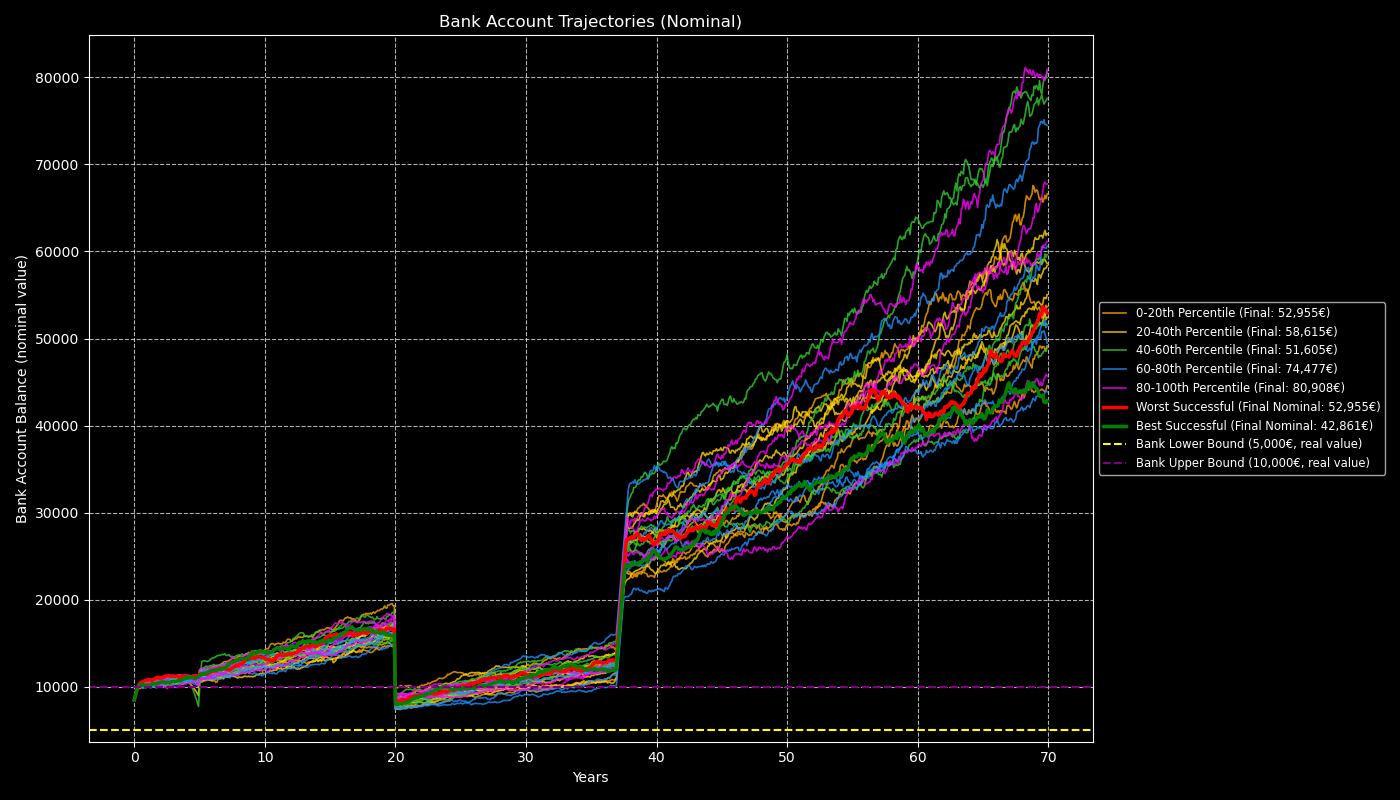
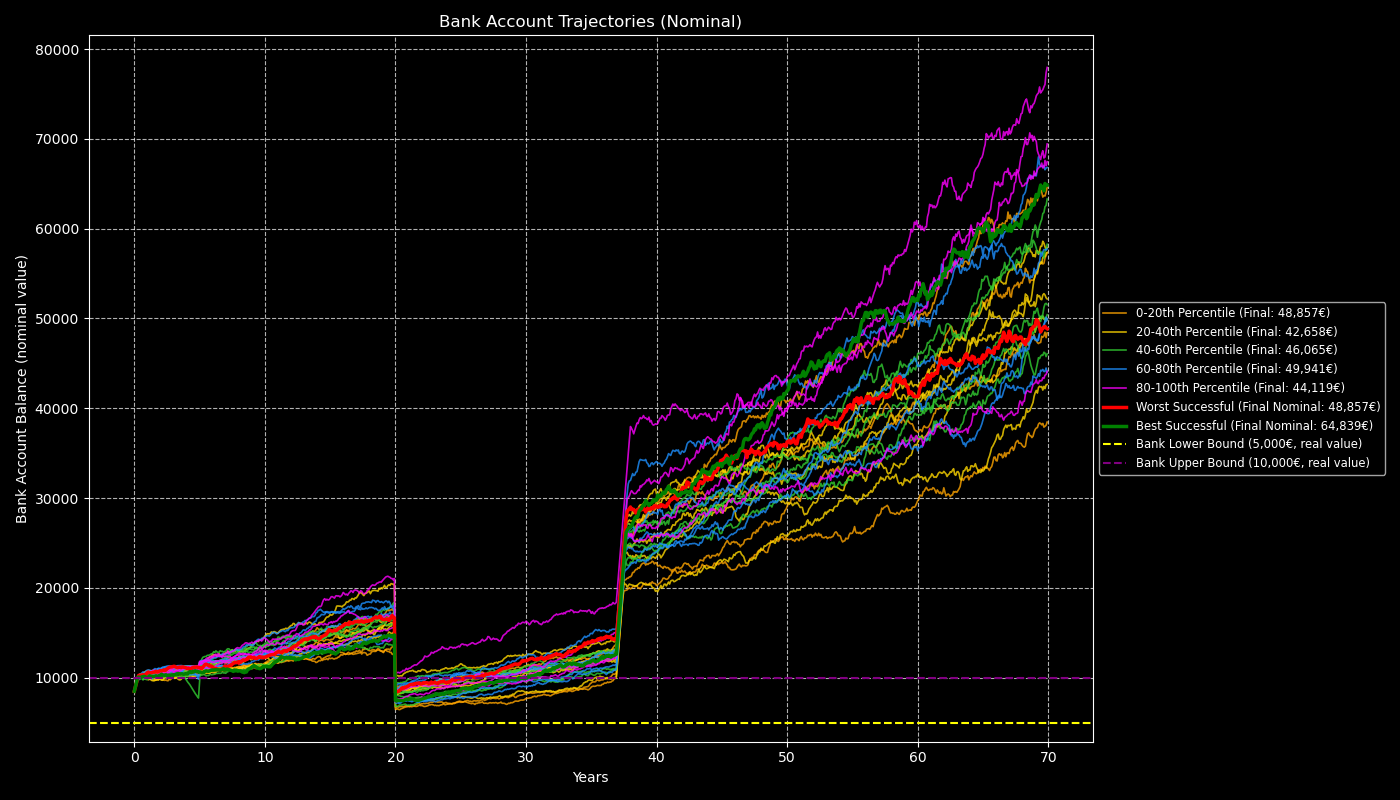
Docs.

diff --git a/docs/reports/summary.md b/docs/reports/summary.md
@@ -1,80 +1,80 @@
 # FIRE Plan Simulation Report
 
-Report generated on: 2025-07-26 16:25:11
+Report generated on: 2025-07-27 18:09:33
 Using configuration: `config.toml`
 
 ## FIRE Plan Simulation Summary
 
-- **FIRE Plan Success Rate:** 99.18%
-- **Number of failed simulations:** 82
-- **Average months lasted in failed simulations:** 209.0
+- **FIRE Plan Success Rate:** 99.20%
+- **Number of failed simulations:** 80
+- **Average months lasted in failed simulations:** 236.8
 
 ## Final Wealth Distribution Statistics (Successful Simulations)
 
 | Statistic                     | Nominal Final Wealth          | Real Final Wealth (Today's Money) |
 |-------------------------------|-------------------------------|-----------------------------------|
-| Median (P50)                  | 13,982,998.30  | 2,538,218.88         |
-| 25th Percentile (P25)         | 7,771,846.63     | 1,381,654.68            |
-| 75th Percentile (P75)         | 26,900,633.18     | 4,961,089.74            |
-| Interquartile Range (P75-P25) | 19,128,786.55     | 3,579,435.06            |
+| Median (P50)                  | 14,031,299.90  | 2,555,931.35         |
+| 25th Percentile (P25)         | 7,903,829.27     | 1,407,895.30            |
+| 75th Percentile (P75)         | 27,231,545.06     | 4,920,135.26            |
+| Interquartile Range (P75-P25) | 19,327,715.79     | 3,512,239.95            |
 
 ## Nominal Results (cases selected by nominal final wealth)
 
 #### Worst Successful Case (Nominal)
 
-- **Final Wealth (Nominal):** 1,286,663.33
-- **Final Wealth (Real):** 242,972.05
-- **Cumulative Inflation Factor:** 5.2955
-- **Your life CAGR (Nominal):** 7.53%
-- **Final Allocations (percent):** stocks: 49.0%, bonds: 51.0%, str: 0.0%, eth: 0.0%, ag: 0.0%, real_estate: 0.0%
-- **Nominal Asset Values:** stocks: 605,093.52 , bonds: 628,614.61 , str: 0.00 , eth: 0.00 , ag: 0.00 , real_estate: 0.00 , Bank: 52,955.20
+- **Final Wealth (Nominal):** 1,275,288.08
+- **Final Wealth (Real):** 261,026.72
+- **Cumulative Inflation Factor:** 4.8857
+- **Your life CAGR (Nominal):** 7.51%
+- **Final Allocations (percent):** stocks: 36.9%, bonds: 63.1%, str: 0.0%, eth: 0.0%, ag: 0.0%
+- **Nominal Asset Values:** stocks: 452,387.19 , bonds: 774,044.28 , str: 0.00 , eth: 0.00 , ag: 0.00 , Bank: 48,856.61
 
 #### Median Successful Case (Nominal)
 
-- **Final Wealth (Nominal):** 13,983,187.27
-- **Final Wealth (Real):** 2,666,273.85
-- **Cumulative Inflation Factor:** 5.2445
+- **Final Wealth (Nominal):** 14,032,653.45
+- **Final Wealth (Real):** 3,354,982.66
+- **Cumulative Inflation Factor:** 4.1826
 - **Your life CAGR (Nominal):** 11.26%
-- **Final Allocations (percent):** stocks: 96.0%, bonds: 4.0%, str: 0.0%, eth: 0.0%, ag: 0.0%, real_estate: 0.0%
-- **Nominal Asset Values:** stocks: 13,372,449.10 , bonds: 558,293.49 , str: 0.00 , eth: 0.00 , ag: 0.00 , real_estate: 0.00 , Bank: 52,444.68
+- **Final Allocations (percent):** stocks: 93.7%, bonds: 6.3%, str: 0.0%, eth: 0.0%, ag: 0.0%
+- **Nominal Asset Values:** stocks: 13,103,569.65 , bonds: 887,257.50 , str: 0.00 , eth: 0.00 , ag: 0.00 , Bank: 41,826.31
 
 #### Best Successful Case (Nominal)
 
-- **Final Wealth (Nominal):** 1,759,017,738.80
-- **Final Wealth (Real):** 410,403,135.94
-- **Cumulative Inflation Factor:** 4.2861
-- **Your life CAGR (Nominal):** 19.21%
-- **Final Allocations (percent):** stocks: 94.2%, bonds: 5.8%, str: 0.0%, eth: 0.0%, ag: 0.0%, real_estate: 0.0%
-- **Nominal Asset Values:** stocks: 1,657,192,172.88 , bonds: 101,782,705.20 , str: 0.00 , eth: 0.00 , ag: 0.00 , real_estate: 0.00 , Bank: 42,860.73
+- **Final Wealth (Nominal):** 8,399,596,448.99
+- **Final Wealth (Real):** 1,295,454,961.33
+- **Cumulative Inflation Factor:** 6.4839
+- **Your life CAGR (Nominal):** 21.90%
+- **Final Allocations (percent):** stocks: 99.2%, bonds: 0.8%, str: 0.0%, eth: 0.0%, ag: 0.0%
+- **Nominal Asset Values:** stocks: 8,333,598,936.40 , bonds: 65,932,673.63 , str: 0.00 , eth: 0.00 , ag: 0.00 , Bank: 64,838.97
 
 ## Real Results (cases selected by real final wealth)
 
 #### Worst Successful Case (Real)
 
-- **Final Wealth (Real):** 180,453.56
-- **Final Wealth (Nominal):** 1,452,048.46
-- **Cumulative Inflation Factor:** 8.0467
-- **Your life CAGR (Real):** 4.55%
-- **Final Allocations (percent):** stocks: 53.5%, bonds: 46.5%, str: 0.0%, eth: 0.0%, ag: 0.0%, real_estate: 0.0%
-- **Nominal Asset Values:** stocks: 734,217.05 , bonds: 637,364.80 , str: 0.00 , eth: 0.00 , ag: 0.00 , real_estate: 0.00 , Bank: 80,466.60
+- **Final Wealth (Real):** 229,507.34
+- **Final Wealth (Nominal):** 1,785,548.69
+- **Cumulative Inflation Factor:** 7.7799
+- **Your life CAGR (Real):** 4.91%
+- **Final Allocations (percent):** stocks: 67.0%, bonds: 33.0%, str: 0.0%, eth: 0.0%, ag: 0.0%
+- **Nominal Asset Values:** stocks: 1,144,120.41 , bonds: 563,629.09 , str: 0.00 , eth: 0.00 , ag: 0.00 , Bank: 77,799.20
 
 #### Median Successful Case (Real)
 
-- **Final Wealth (Real):** 2,538,877.30
-- **Final Wealth (Nominal):** 10,684,805.85
-- **Cumulative Inflation Factor:** 4.2085
-- **Your life CAGR (Real):** 8.58%
-- **Final Allocations (percent):** stocks: 91.2%, bonds: 8.8%, str: 0.0%, eth: 0.0%, ag: 0.0%, real_estate: 0.0%
-- **Nominal Asset Values:** stocks: 9,708,237.99 , bonds: 934,483.10 , str: 0.00 , eth: 0.00 , ag: 0.00 , real_estate: 0.00 , Bank: 42,084.77
+- **Final Wealth (Real):** 2,556,027.70
+- **Final Wealth (Nominal):** 16,418,585.67
+- **Cumulative Inflation Factor:** 6.4235
+- **Your life CAGR (Real):** 8.59%
+- **Final Allocations (percent):** stocks: 94.5%, bonds: 5.5%, str: 0.0%, eth: 0.0%, ag: 0.0%
+- **Nominal Asset Values:** stocks: 15,452,943.70 , bonds: 901,407.19 , str: 0.00 , eth: 0.00 , ag: 0.00 , Bank: 64,234.77
 
 #### Best Successful Case (Real)
 
-- **Final Wealth (Real):** 410,403,135.94
-- **Final Wealth (Nominal):** 1,759,017,738.80
-- **Cumulative Inflation Factor:** 4.2861
-- **Your life CAGR (Real):** 16.76%
-- **Final Allocations (percent):** stocks: 94.2%, bonds: 5.8%, str: 0.0%, eth: 0.0%, ag: 0.0%, real_estate: 0.0%
-- **Nominal Asset Values:** stocks: 1,657,192,172.88 , bonds: 101,782,705.20 , str: 0.00 , eth: 0.00 , ag: 0.00 , real_estate: 0.00 , Bank: 42,860.73
+- **Final Wealth (Real):** 1,295,454,961.33
+- **Final Wealth (Nominal):** 8,399,596,448.99
+- **Cumulative Inflation Factor:** 6.4839
+- **Your life CAGR (Real):** 18.69%
+- **Final Allocations (percent):** stocks: 99.2%, bonds: 0.8%, str: 0.0%, eth: 0.0%, ag: 0.0%
+- **Nominal Asset Values:** stocks: 8,333,598,936.40 , bonds: 65,932,673.63 , str: 0.00 , eth: 0.00 , ag: 0.00 , Bank: 64,838.97
 
 ## Visualizations
 
@@ -120,42 +120,31 @@ Using configuration: `config.toml`
 [assets.stocks]
 mu = 0.07
 sigma = 0.15
-is_liquid = true
 withdrawal_priority = 2
 
 [assets.bonds]
 mu = 0.03
 sigma = 0.055
-is_liquid = true
 withdrawal_priority = 1
 
 [assets.str]
 mu = 0.0152
 sigma = 0.0181
-is_liquid = true
 withdrawal_priority = 0
 
 [assets.eth]
 mu = 0.25
 sigma = 0.9
-is_liquid = true
 withdrawal_priority = 3
 
 [assets.ag]
 mu = 0.07
 sigma = 0.32
-is_liquid = true
 withdrawal_priority = 4
-
-[assets.real_estate]
-mu = -0.0054
-sigma = 0.0416
-is_liquid = false
 
 [assets.inflation]
 mu = 0.025
 sigma = 0.025
-is_liquid = false
 
 [deterministic_inputs]
 initial_bank_balance = 8000.0
@@ -192,17 +181,15 @@ assets_order = [
     "str",
     "eth",
     "ag",
-    "real_estate",
     "inflation",
 ]
 matrix = [
-    [1.0, 0.0, 0.0, 0.0, 0.0, 0.0, 0.0],
-    [0.0, 1.0, 0.0, 0.0, 0.0, 0.0, 0.0],
-    [0.0, 0.0, 1.0, 0.0, 0.0, 0.0, 0.0],
-    [0.0, 0.0, 0.0, 1.0, 0.0, 0.0, 0.0],
-    [0.0, 0.0, 0.0, 0.0, 1.0, 0.0, 0.0],
-    [0.0, 0.0, 0.0, 0.0, 0.0, 1.0, 0.0],
-    [0.0, 0.0, 0.0, 0.0, 0.0, 0.0, 1.0],
+    [1.0, 0.0, 0.0, 0.0, 0.0, 0.0],
+    [0.0, 1.0, 0.0, 0.0, 0.0, 0.0],
+    [0.0, 0.0, 1.0, 0.0, 0.0, 0.0],
+    [0.0, 0.0, 0.0, 1.0, 0.0, 0.0],
+    [0.0, 0.0, 0.0, 0.0, 1.0, 0.0],
+    [0.0, 0.0, 0.0, 0.0, 0.0, 1.0],
 ]
 
 [[portfolio_rebalances]]
